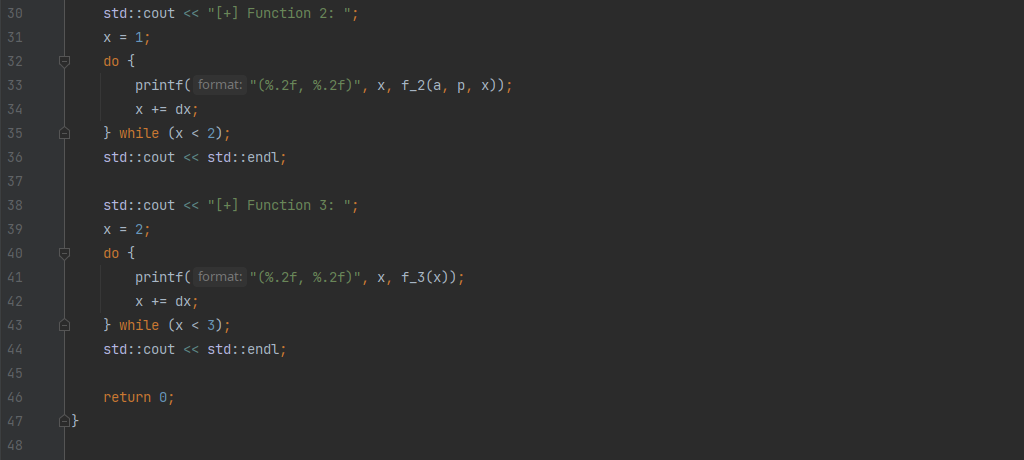
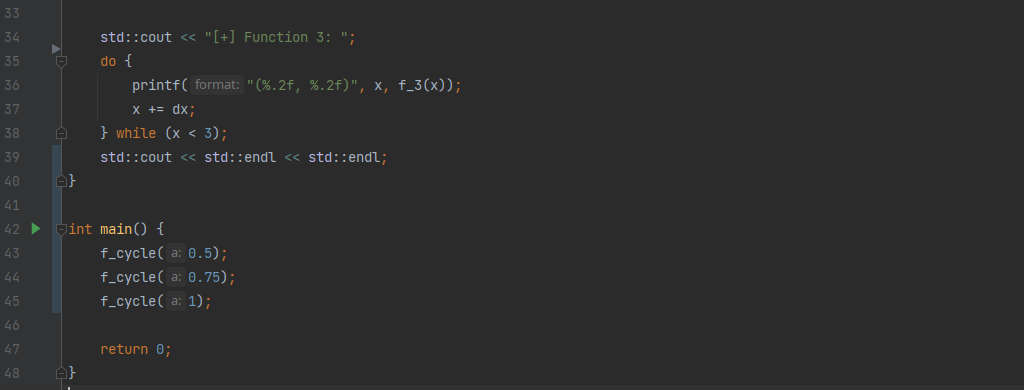
Update fifth lab

diff --git a/5/Code/5_3.cpp b/5/Code/5_3.cpp
@@ -1,47 +1,48 @@
 #include <iostream>
 #include <cmath>
 
-double f_1(double a, double p, double x) {
-    return tan(pow(a, 2) + sin(p * x));
+double f_1(double a, double x) {
+    return tan(pow(a, 2) + sin(M_PI * x));
 }
 
-double f_2(double a, double p, double x) {
-    return a * sin(p - cos(p * x));
+double f_2(double a, double x) {
+    return a * sin(M_PI - cos(M_PI * x));
 }
 
 double f_3(double x) {
     return log10(x);
 }
 
-int main() {
-    double x;
-    double a = 0.5;
-    double p = 0.75;
+void f_cycle(double a) {
+    double x = 0;
     double dx = a / 4;
 
     std::cout << "[+] Function 1: ";
-    x = 0;
     do {
-        printf("(%.2f, %.2f)", x, f_1(a, p, x));
+        printf("(%.2f, %.2f)", x, f_1(a, x));
         x += dx;
-    } while (x < 1);
-        std::cout << std::endl;
+    } while (x <= 1);
+    std::cout << std::endl;
 
     std::cout << "[+] Function 2: ";
-    x = 1;
     do {
-        printf("(%.2f, %.2f)", x, f_2(a, p, x));
+        printf("(%.2f, %.2f)", x, f_2(a, x));
         x += dx;
-    } while (x < 2);
+    } while (x <= 2);
     std::cout << std::endl;
 
     std::cout << "[+] Function 3: ";
-    x = 2;
     do {
         printf("(%.2f, %.2f)", x, f_3(x));
         x += dx;
     } while (x < 3);
-    std::cout << std::endl;
+    std::cout << std::endl << std::endl;
+}
+
+int main() {
+    f_cycle(0.5);
+    f_cycle(0.75);
+    f_cycle(1);
 
     return 0;
 }

diff --git a/5/Code/5_1.cpp b/5/Code/5_1.cpp
@@ -21,11 +21,11 @@ int main() {
     std::cout << "|    Value   |    F(1)    |    F(2)    |" << std::endl;
     std::cout << "|------------+------------+------------|" << std::endl;
     do {
-        value += step;
         double result_1 = f_1(value);
         double result_2 = f_2(value);
         printf("|    %.2f    |    %.2f    |    %.2f    |\n", value, result_1, result_2);
-    } while ((int)value != (int)stop + value);
+        value += step;
+    } while ((int)value != (int)stop);
     std::cout << "+------------+------------+------------+" << std::endl;
 
     return 0;
